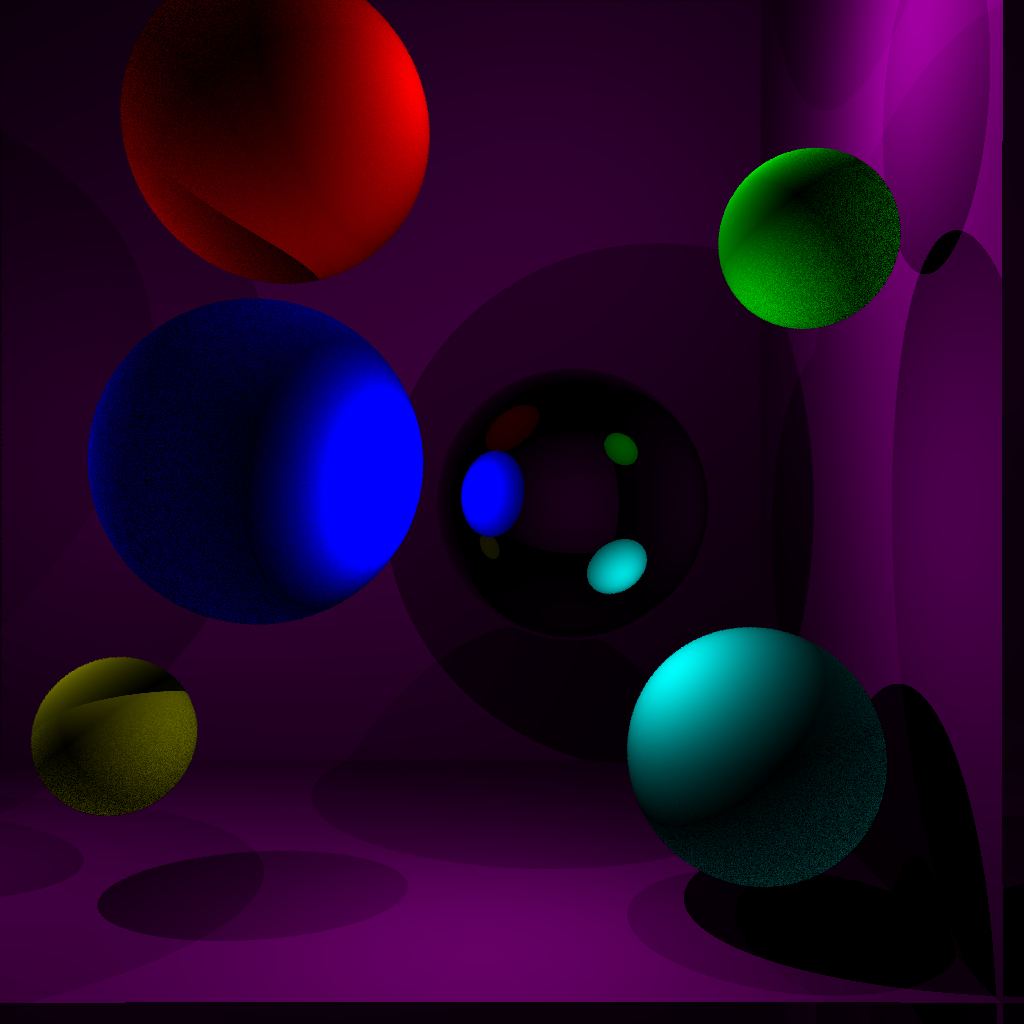
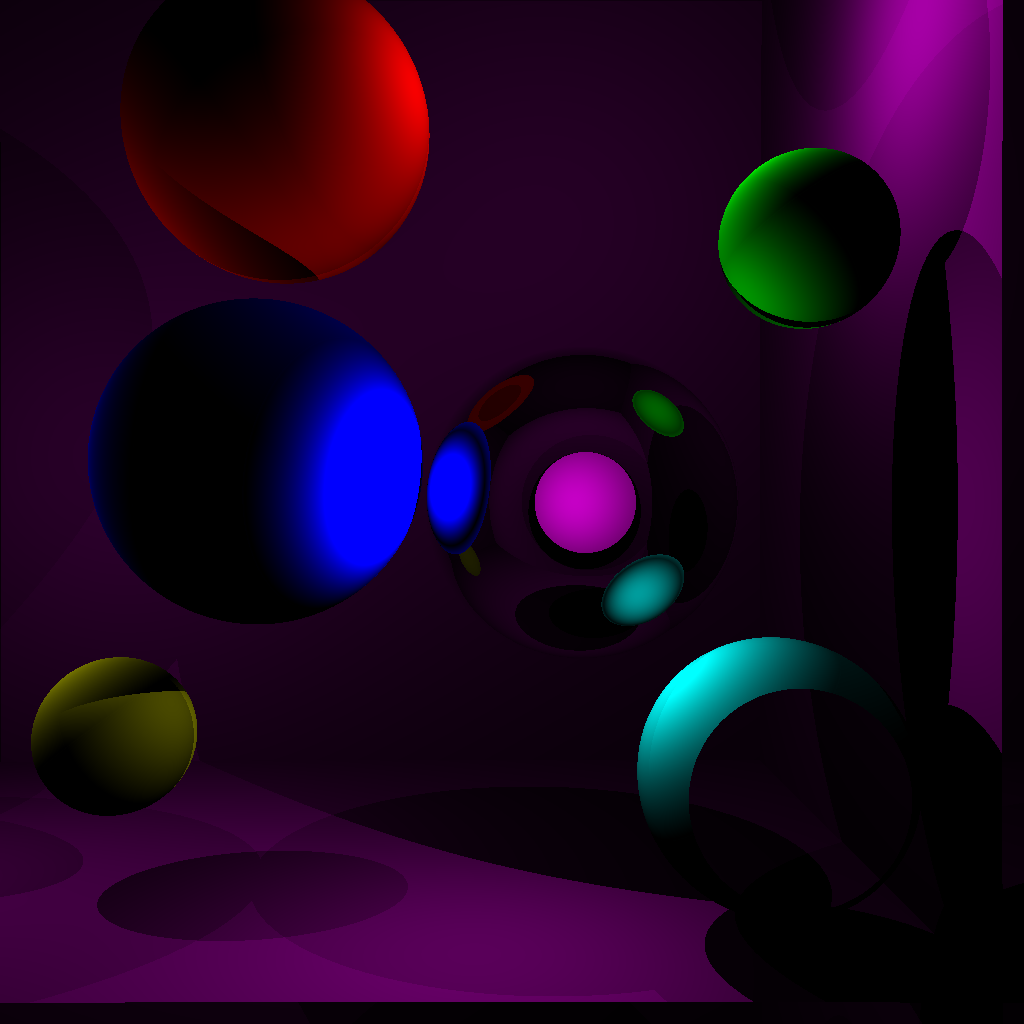
Amélioration du mirroir

diff --git a/SyntheseTP2/SyntheseTP2/Main.cpp b/SyntheseTP2/SyntheseTP2/Main.cpp
@@ -141,46 +141,6 @@ int intersectSpheres(Rayon r, vector<Sphere*> spheres, float* distance)
     return intersect;
 }
 
-void mirrorRebound(Vector3 intersection, Rayon rayon, vector<Lampe> lamps, vector<Sphere*> spheres, int intersectSphere, vector<double>* image, int index)
-{
-    float minDistance;
-
-    Vector3 normaleRayon = rayon.GetDirection();
-
-    Vector3 normaleSurface = intersection - spheres[intersectSphere]->GetCentre();
-    normaleSurface = normaleSurface.normalize();
-
-    Vector3 directionRayon = (-normaleRayon.dot(normaleSurface)) * normaleSurface * 2 + normaleRayon;
-
-    Rayon rayonSortant = Rayon(directionRayon, intersection);
-
-    rayonSortant.rebound = ++rayon.rebound;
-
-    int sphereIntersect = intersectSpheres(rayonSortant, spheres, &minDistance);
-    if (sphereIntersect != -1)
-    {
-        Vector3 newIntersection = Vector3(minDistance * normaleRayon.x + intersection.x, minDistance * normaleRayon.y + intersection.y, (float)(minDistance * normaleRayon.z + intersection.z - 0.02));
-
-        if (spheres[sphereIntersect]->IsMirror() && rayonSortant.rebound < Rayon::maxRebound)
-        {
-            mirrorRebound(newIntersection, rayonSortant, lamps, spheres, sphereIntersect, image, index);
-        }
-        else
-        {
-            intersectLamps(newIntersection,lamps,spheres,sphereIntersect,image,index);
-
-            /*Lampe lampe = Lampe(intersection, newIntersection, 30000000);
-            Couleur surface = colorOnSurface(lampe, spheres[sphereIntersect]);
-
-            color(image, index, surface);*/
-        }
-    }
-    else
-    {
-        color(image, index, Couleur(100, 100, 100));
-    }
-}
-
 void intersectLamps(Vector3 intersection,vector<Lampe> lamps,vector<Sphere*> spheres, int intersectSphere,vector<double> *image, int index)
 {
     Couleur surface = Couleur(0,0,0);
@@ -206,7 +166,46 @@ void intersectLamps(Vector3 intersection,vector<Lampe> lamps,vector<Sphere*> sph
         color(image, index, Couleur(0, 0, 0));
     }
 }
+void mirrorRebound(Vector3 intersection, Rayon rayon, vector<Lampe>* lamps, vector<Sphere*>* spheres, int intersectSphere, vector<double>* image, int index)
+{
+    float minDistance;
 
+    Vector3 normaleRayon = rayon.GetDirection();
+
+    Vector3 normaleSurface = intersection - spheres->at(intersectSphere)->GetCentre();
+    normaleSurface = normaleSurface.normalize();
+
+    Vector3 directionRayon = (-normaleRayon.dot(normaleSurface)) * normaleSurface * 2 + normaleRayon;
+
+    Rayon rayonSortant = Rayon(directionRayon, intersection);
+
+    rayonSortant.rebound = ++rayon.rebound;
+
+    int sphereIntersect = intersectSpheres(rayonSortant, *spheres, &minDistance);
+    if (sphereIntersect != -1)
+    {
+        Vector3 newIntersection = Vector3(minDistance * normaleRayon.x + intersection.x, minDistance * normaleRayon.y + intersection.y, (float)(minDistance * normaleRayon.z + intersection.z - 0.02));
+
+        if (spheres->at(sphereIntersect)->IsMirror() && rayonSortant.rebound < Rayon::maxRebound)
+        {
+            mirrorRebound(newIntersection, rayonSortant, lamps, spheres, sphereIntersect, image, index);
+        }
+        else
+        {
+
+            intersectLamps(newIntersection, *lamps, *spheres, sphereIntersect, image, index);
+
+            /*Lampe lampe = Lampe(intersection, newIntersection, 30000000);
+            Couleur surface = colorOnSurface(lampe, spheres[sphereIntersect]);
+
+            color(image, index, surface);*/
+        }
+    }
+    else
+    {
+        color(image, index, Couleur(100, 100, 100));
+    }
+}
 float randomFloat(float min, float max) {
 
     return ((float)rand() / RAND_MAX) * (max - min) + min;
@@ -256,7 +255,7 @@ int main(int argc, char* argv[]) {
 
         SphereCouleur vert = SphereCouleur(100, Vector3(850, 200, 150), Couleur(0, 1, 0));
 
-        SphereCouleur cyan = SphereCouleur(150, Vector3(800, 800, 200), Couleur(0, 1, 1));
+        SphereCouleur cyan = SphereCouleur(150, Vector3(800, 800, 180), Couleur(0, 1, 1));
 
         SphereCouleur jaune = SphereCouleur(100, Vector3(0, 800, 300), Couleur(1, 1, 0));
 
@@ -272,7 +271,7 @@ int main(int argc, char* argv[]) {
 
         SphereCouleur murGauche = SphereCouleur(100000, Vector3(101000, 512, 512), Couleur(1, 0, 1));
 
-        Mirroir mirroir = Mirroir(200, Vector3(600, 500, 500), Couleur(1, 1, 1));
+        Mirroir mirroir = Mirroir(200, Vector3(600, 500, 300), Couleur(1, 1, 1));
 
         addSphere(&spheres, &rouge);
         addSphere(&spheres, &bleu);
@@ -324,7 +323,7 @@ int main(int argc, char* argv[]) {
                         }
                         else
                         {
-                            mirrorRebound(pointIntersection, rayon,lampes, spheres, sphereIntersect, &image, 4 * width * y + 4 * x);
+                            mirrorRebound(pointIntersection, rayon,&lampes, &spheres, sphereIntersect, &image, 4 * width * y + 4 * x);
                         }
                     }
                     else
